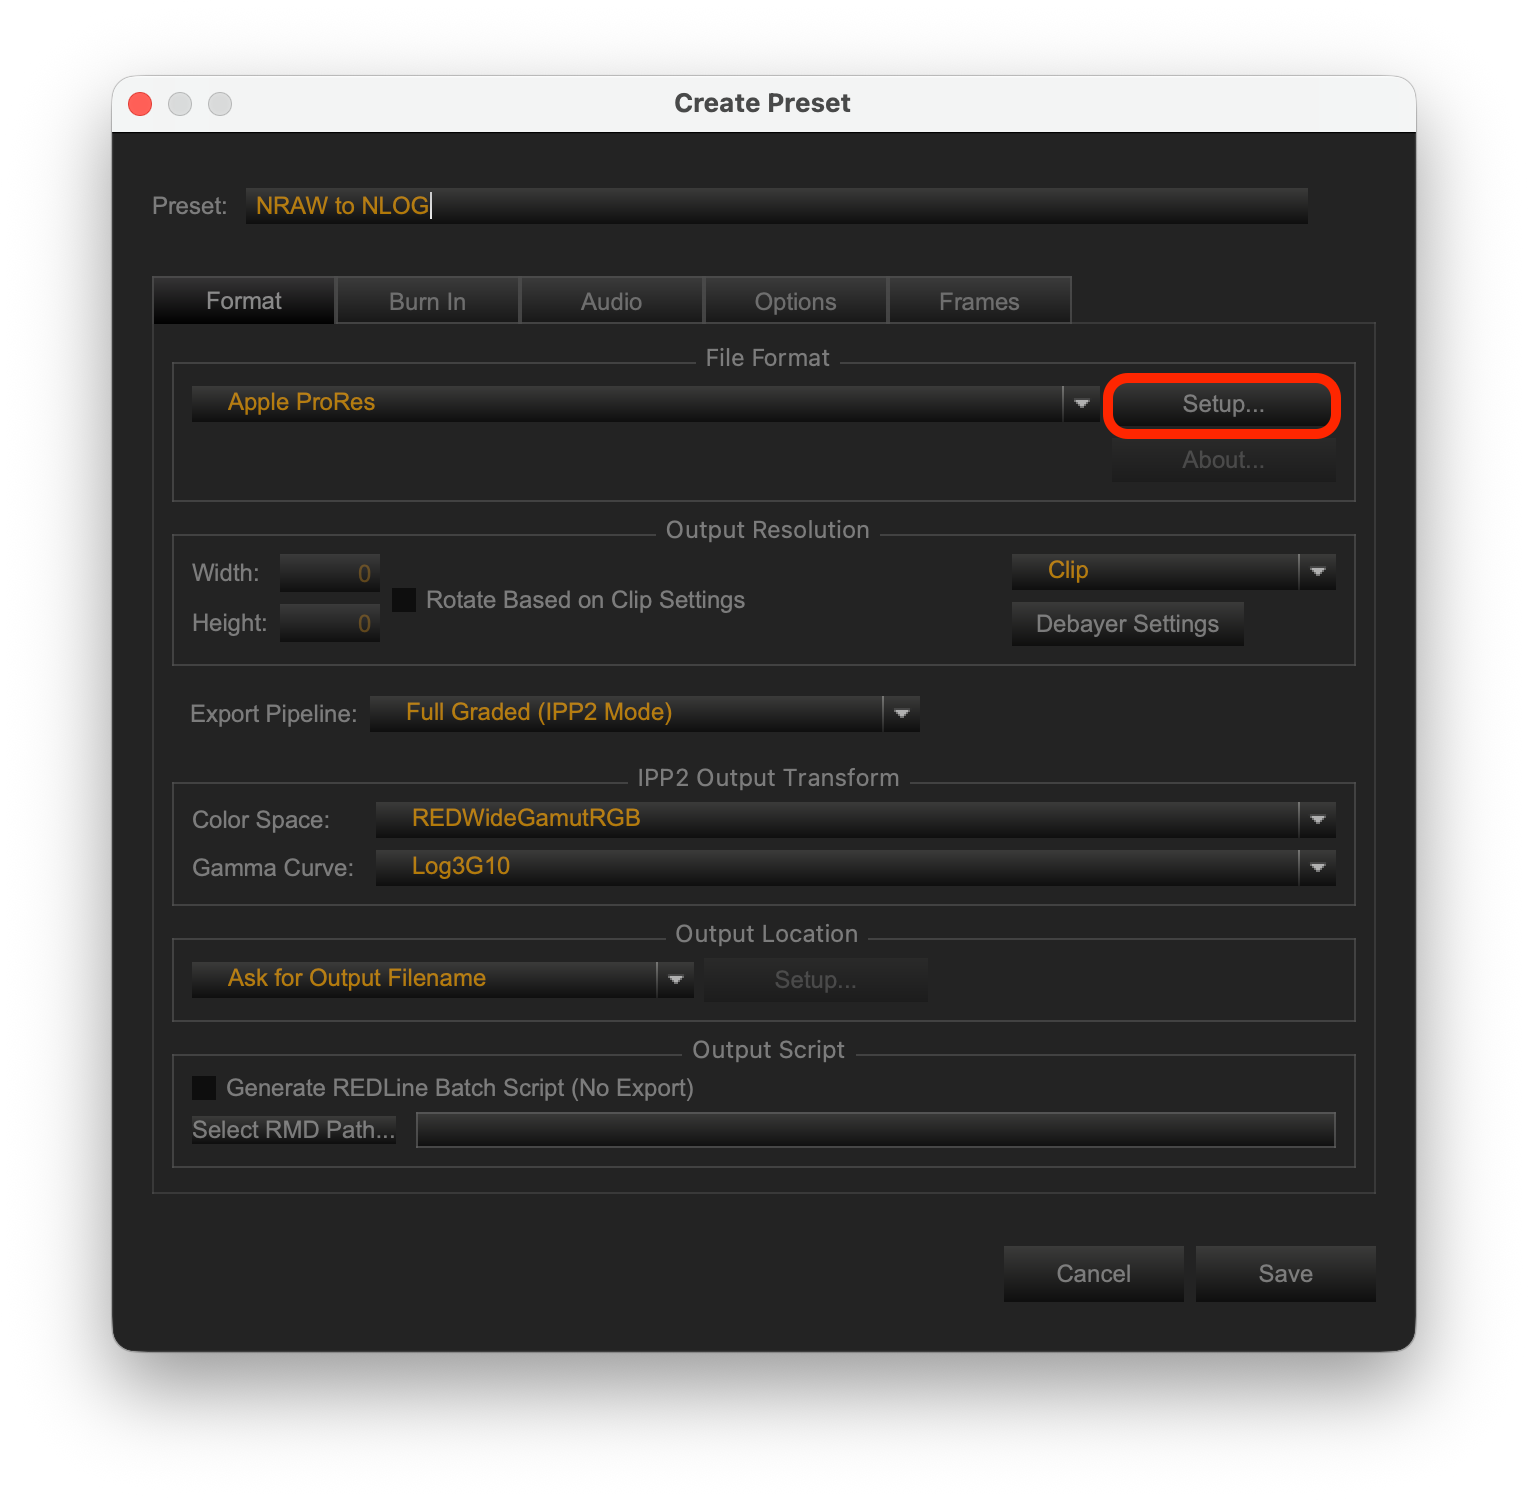
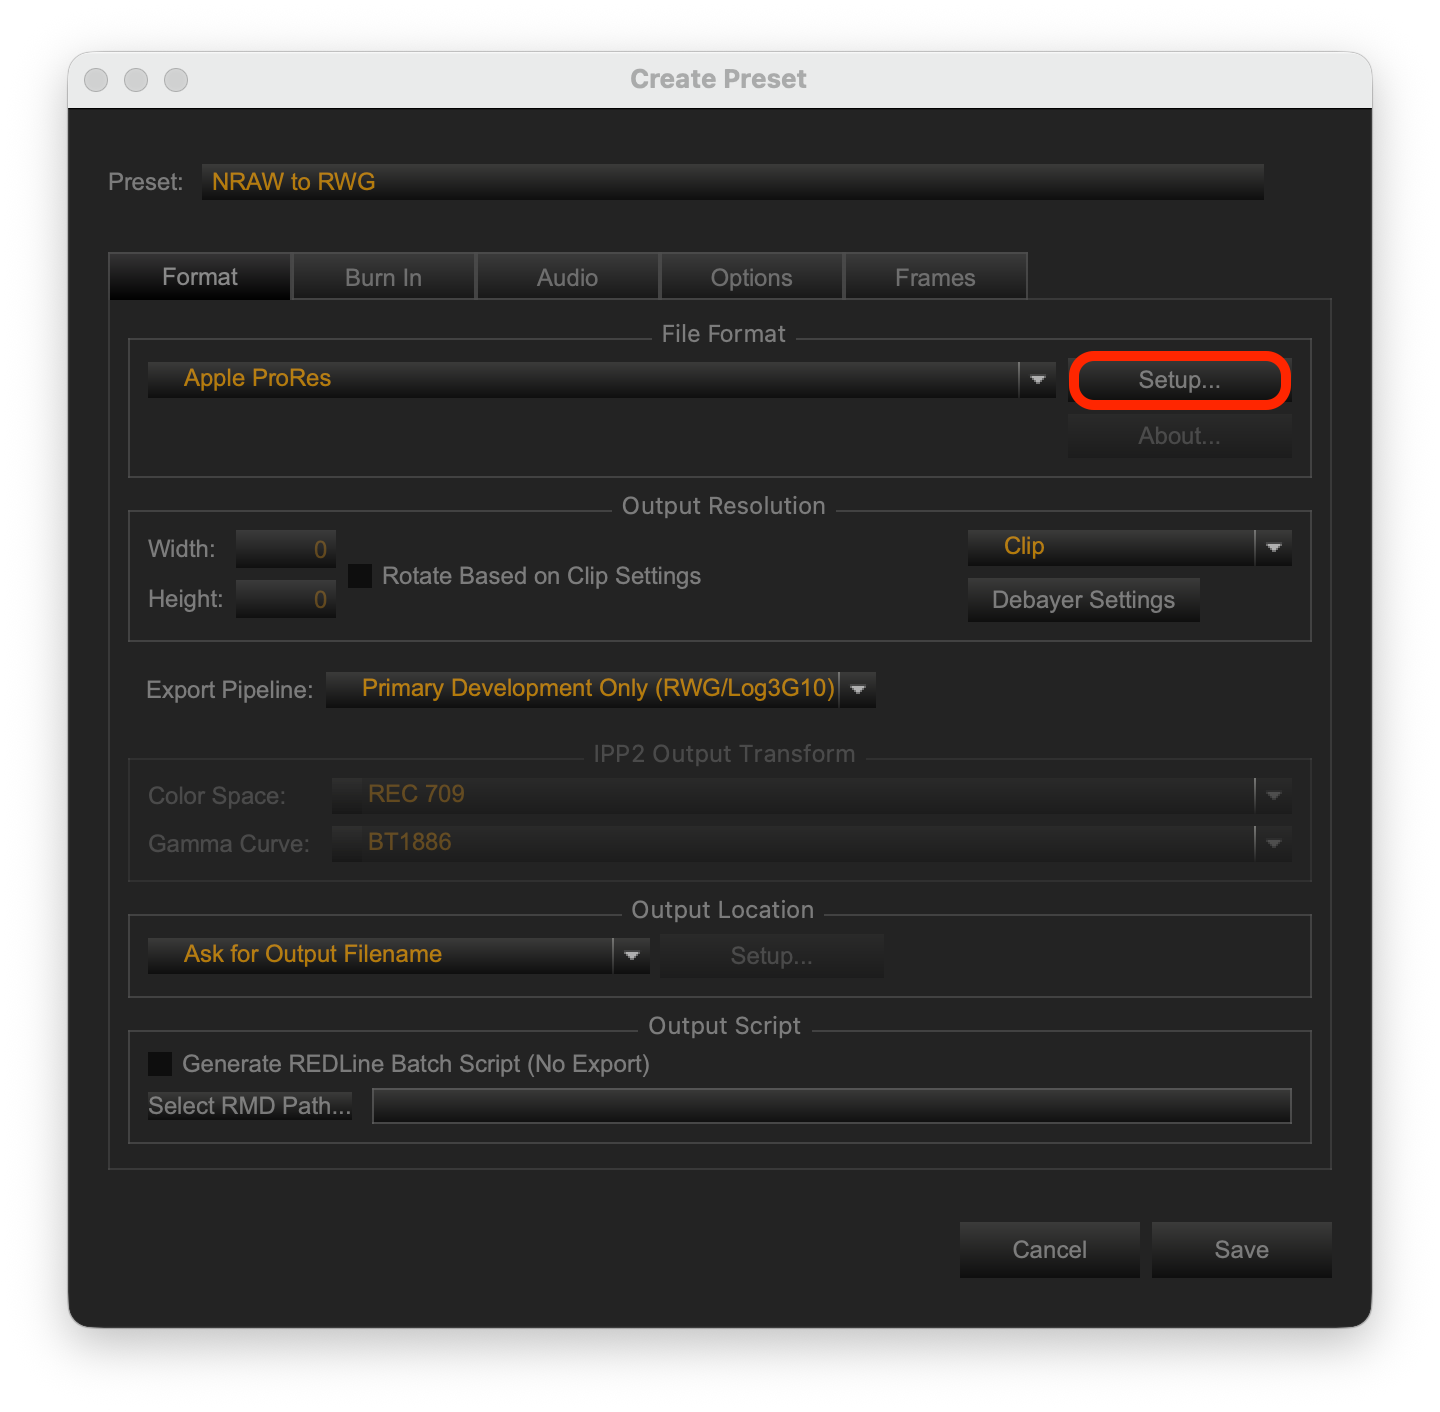
Site updated: 2025-06-13 16:15:22

diff --git a/2025/06/13/NRAW转换RWG/index.html b/2025/06/13/NRAW转换RWG/index.html
@@ -23,8 +23,8 @@
   
     <meta name="description" content="1.获取软件1.1 REDCINE-X PRO可以从RED - Downloads快速获取最新版本               Warning上述软件需选择对应平台版本安装               2.正式转换2.1 启动软件 2.2 素材导入将素材拖入红框部分，素材显示即导入成功               Tip预览异常，可通过更改红框部分即“预览分辨率”解决更改后如下图">
 <meta property="og:type" content="article">
-<meta property="og:title" content="视频制作-NRAW转换NLOG">
-<meta property="og:url" content="https://caliiiin.github.io/2025/06/13/NRAW%E8%BD%AC%E6%8D%A2NLOG/index.html">
+<meta property="og:title" content="视频制作-NRAW转换RWG">
+<meta property="og:url" content="https://caliiiin.github.io/2025/06/13/NRAW%E8%BD%AC%E6%8D%A2RWG/index.html">
 <meta property="og:site_name" content="Calin&#39;s Blog">
 <meta property="og:description" content="1.获取软件1.1 REDCINE-X PRO可以从RED - Downloads快速获取最新版本               Warning上述软件需选择对应平台版本安装               2.正式转换2.1 启动软件 2.2 素材导入将素材拖入红框部分，素材显示即导入成功               Tip预览异常，可通过更改红框部分即“预览分辨率”解决更改后如下图">
 <meta property="og:locale" content="zh_CN">
@@ -39,14 +39,14 @@
 <meta property="og:image" content="https://caliiiin.github.io/img/REDCINE-X-PRO-Apple-ProRes%E8%AE%BE%E7%BD%AE%E9%A1%B5%E9%9D%A2%E7%A4%BA%E4%BE%8B.PNG">
 <meta property="og:image" content="https://caliiiin.github.io/img/REDCINE-X-PRO%E6%9C%80%E7%BB%88%E5%AF%BC%E5%87%BA%E9%A1%B5%E9%9D%A2%E7%A4%BA%E4%BE%8B.PNG">
 <meta property="article:published_time" content="2025-06-13T03:44:04.827Z">
-<meta property="article:modified_time" content="2025-06-13T06:08:07.041Z">
+<meta property="article:modified_time" content="2025-06-13T08:13:59.231Z">
 <meta property="article:author" content="Calin">
 <meta name="twitter:card" content="summary_large_image">
 <meta name="twitter:image" content="https://caliiiin.github.io/img/REDCINE-X-PRO%E5%AE%89%E8%A3%85%E7%A4%BA%E4%BE%8B.PNG">
   
   
   
-  <title>视频制作-NRAW转换NLOG - Calin&#39;s Blog</title>
+  <title>视频制作-NRAW转换RWG - Calin&#39;s Blog</title>
 
   <link  rel="stylesheet" href="https://lib.baomitu.com/twitter-bootstrap/4.6.1/css/bootstrap.min.css" />
 
@@ -188,7 +188,7 @@
       <div class="banner-text text-center fade-in-up">
         <div class="h2">
           
-            <span id="subtitle" data-typed-text="视频制作-NRAW转换NLOG"></span>
+            <span id="subtitle" data-typed-text="视频制作-NRAW转换RWG"></span>
           
         </div>
 
@@ -259,7 +259,7 @@
       <div class="container nopadding-x-md" id="board-ctn">
         <div id="board">
           <article class="post-content mx-auto">
-            <h1 id="seo-header">视频制作-NRAW转换NLOG</h1>
+            <h1 id="seo-header">视频制作-NRAW转换RWG</h1>
             
             
               <div class="markdown-body">
@@ -331,8 +331,8 @@
 
   <div class="license-box my-3">
     <div class="license-title">
-      <div>视频制作-NRAW转换NLOG</div>
-      <div>https://caliiiin.github.io/2025/06/13/NRAW转换NLOG/</div>
+      <div>视频制作-NRAW转换RWG</div>
+      <div>https://caliiiin.github.io/2025/06/13/NRAW转换RWG/</div>
     </div>
     <div class="license-meta">
       

diff --git a/index.html b/index.html
@@ -205,13 +205,13 @@
     <article class="col-12 col-md-12 mx-auto index-info">
       <h2 class="index-header">
         
-        <a href="/2025/06/13/NRAW%E8%BD%AC%E6%8D%A2NLOG/" target="_self">
-          视频制作-NRAW转换NLOG
+        <a href="/2025/06/13/NRAW%E8%BD%AC%E6%8D%A2RWG/" target="_self">
+          视频制作-NRAW转换RWG
         </a>
       </h2>
 
       
-      <a class="index-excerpt index-excerpt__noimg" href="/2025/06/13/NRAW%E8%BD%AC%E6%8D%A2NLOG/" target="_self">
+      <a class="index-excerpt index-excerpt__noimg" href="/2025/06/13/NRAW%E8%BD%AC%E6%8D%A2RWG/" target="_self">
         <div>
           
         </div>

diff --git a/categories/index.html b/categories/index.html
@@ -332,10 +332,10 @@
     
       
       
-        <a href="/2025/06/13/NRAW%E8%BD%AC%E6%8D%A2NLOG/" title="视频制作-NRAW转换NLOG"
+        <a href="/2025/06/13/NRAW%E8%BD%AC%E6%8D%A2RWG/" title="视频制作-NRAW转换RWG"
            class="list-group-item list-group-item-action
            ">
-          <span class="category-post">视频制作-NRAW转换NLOG</span>
+          <span class="category-post">视频制作-NRAW转换RWG</span>
         </a>
       
     

diff --git a/categories/视频制作学习/index.html b/categories/视频制作学习/index.html
@@ -203,9 +203,9 @@
       
       <p class="h5">2025</p>
     
-    <a href="/2025/06/13/NRAW%E8%BD%AC%E6%8D%A2NLOG/" class="list-group-item list-group-item-action">
+    <a href="/2025/06/13/NRAW%E8%BD%AC%E6%8D%A2RWG/" class="list-group-item list-group-item-action">
       <time>06-13</time>
-      <div class="list-group-item-title">视频制作-NRAW转换NLOG</div>
+      <div class="list-group-item-title">视频制作-NRAW转换RWG</div>
     </a>
   
 </div>

diff --git a/archives/2025/06/index.html b/archives/2025/06/index.html
@@ -203,9 +203,9 @@
       
       <p class="h5">2025</p>
     
-    <a href="/2025/06/13/NRAW%E8%BD%AC%E6%8D%A2NLOG/" class="list-group-item list-group-item-action">
+    <a href="/2025/06/13/NRAW%E8%BD%AC%E6%8D%A2RWG/" class="list-group-item list-group-item-action">
       <time>06-13</time>
-      <div class="list-group-item-title">视频制作-NRAW转换NLOG</div>
+      <div class="list-group-item-title">视频制作-NRAW转换RWG</div>
     </a>
   
     

diff --git a/archives/2025/index.html b/archives/2025/index.html
@@ -203,9 +203,9 @@
       
       <p class="h5">2025</p>
     
-    <a href="/2025/06/13/NRAW%E8%BD%AC%E6%8D%A2NLOG/" class="list-group-item list-group-item-action">
+    <a href="/2025/06/13/NRAW%E8%BD%AC%E6%8D%A2RWG/" class="list-group-item list-group-item-action">
       <time>06-13</time>
-      <div class="list-group-item-title">视频制作-NRAW转换NLOG</div>
+      <div class="list-group-item-title">视频制作-NRAW转换RWG</div>
     </a>
   
     

diff --git a/archives/index.html b/archives/index.html
@@ -203,9 +203,9 @@
       
       <p class="h5">2025</p>
     
-    <a href="/2025/06/13/NRAW%E8%BD%AC%E6%8D%A2NLOG/" class="list-group-item list-group-item-action">
+    <a href="/2025/06/13/NRAW%E8%BD%AC%E6%8D%A2RWG/" class="list-group-item list-group-item-action">
       <time>06-13</time>
-      <div class="list-group-item-title">视频制作-NRAW转换NLOG</div>
+      <div class="list-group-item-title">视频制作-NRAW转换RWG</div>
     </a>
   
     
